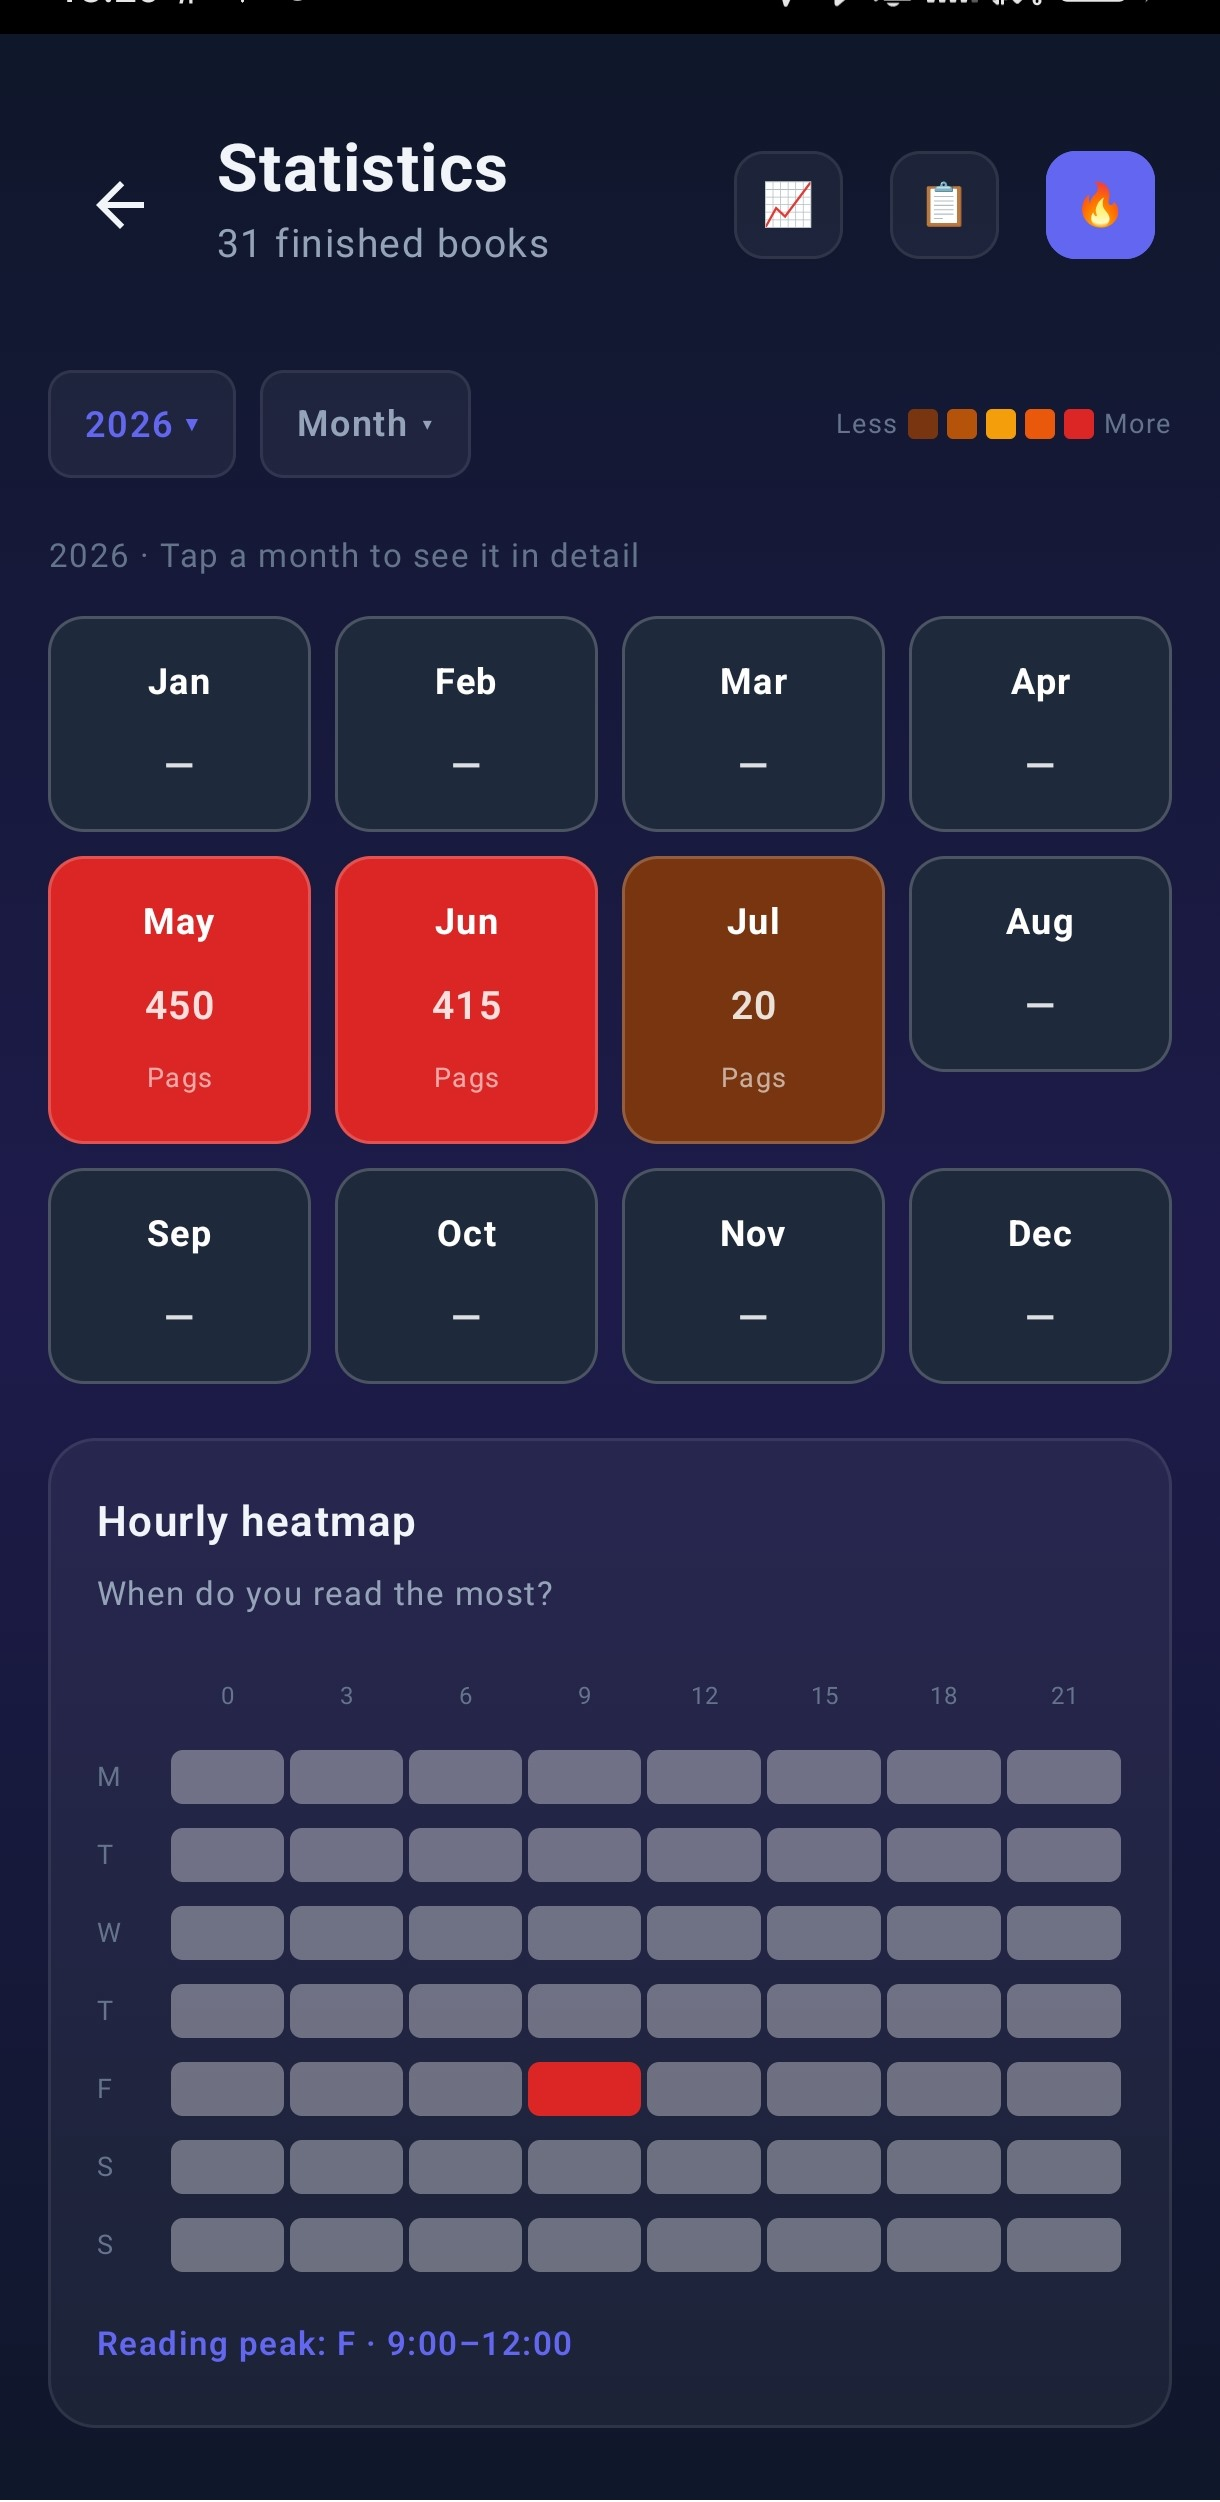
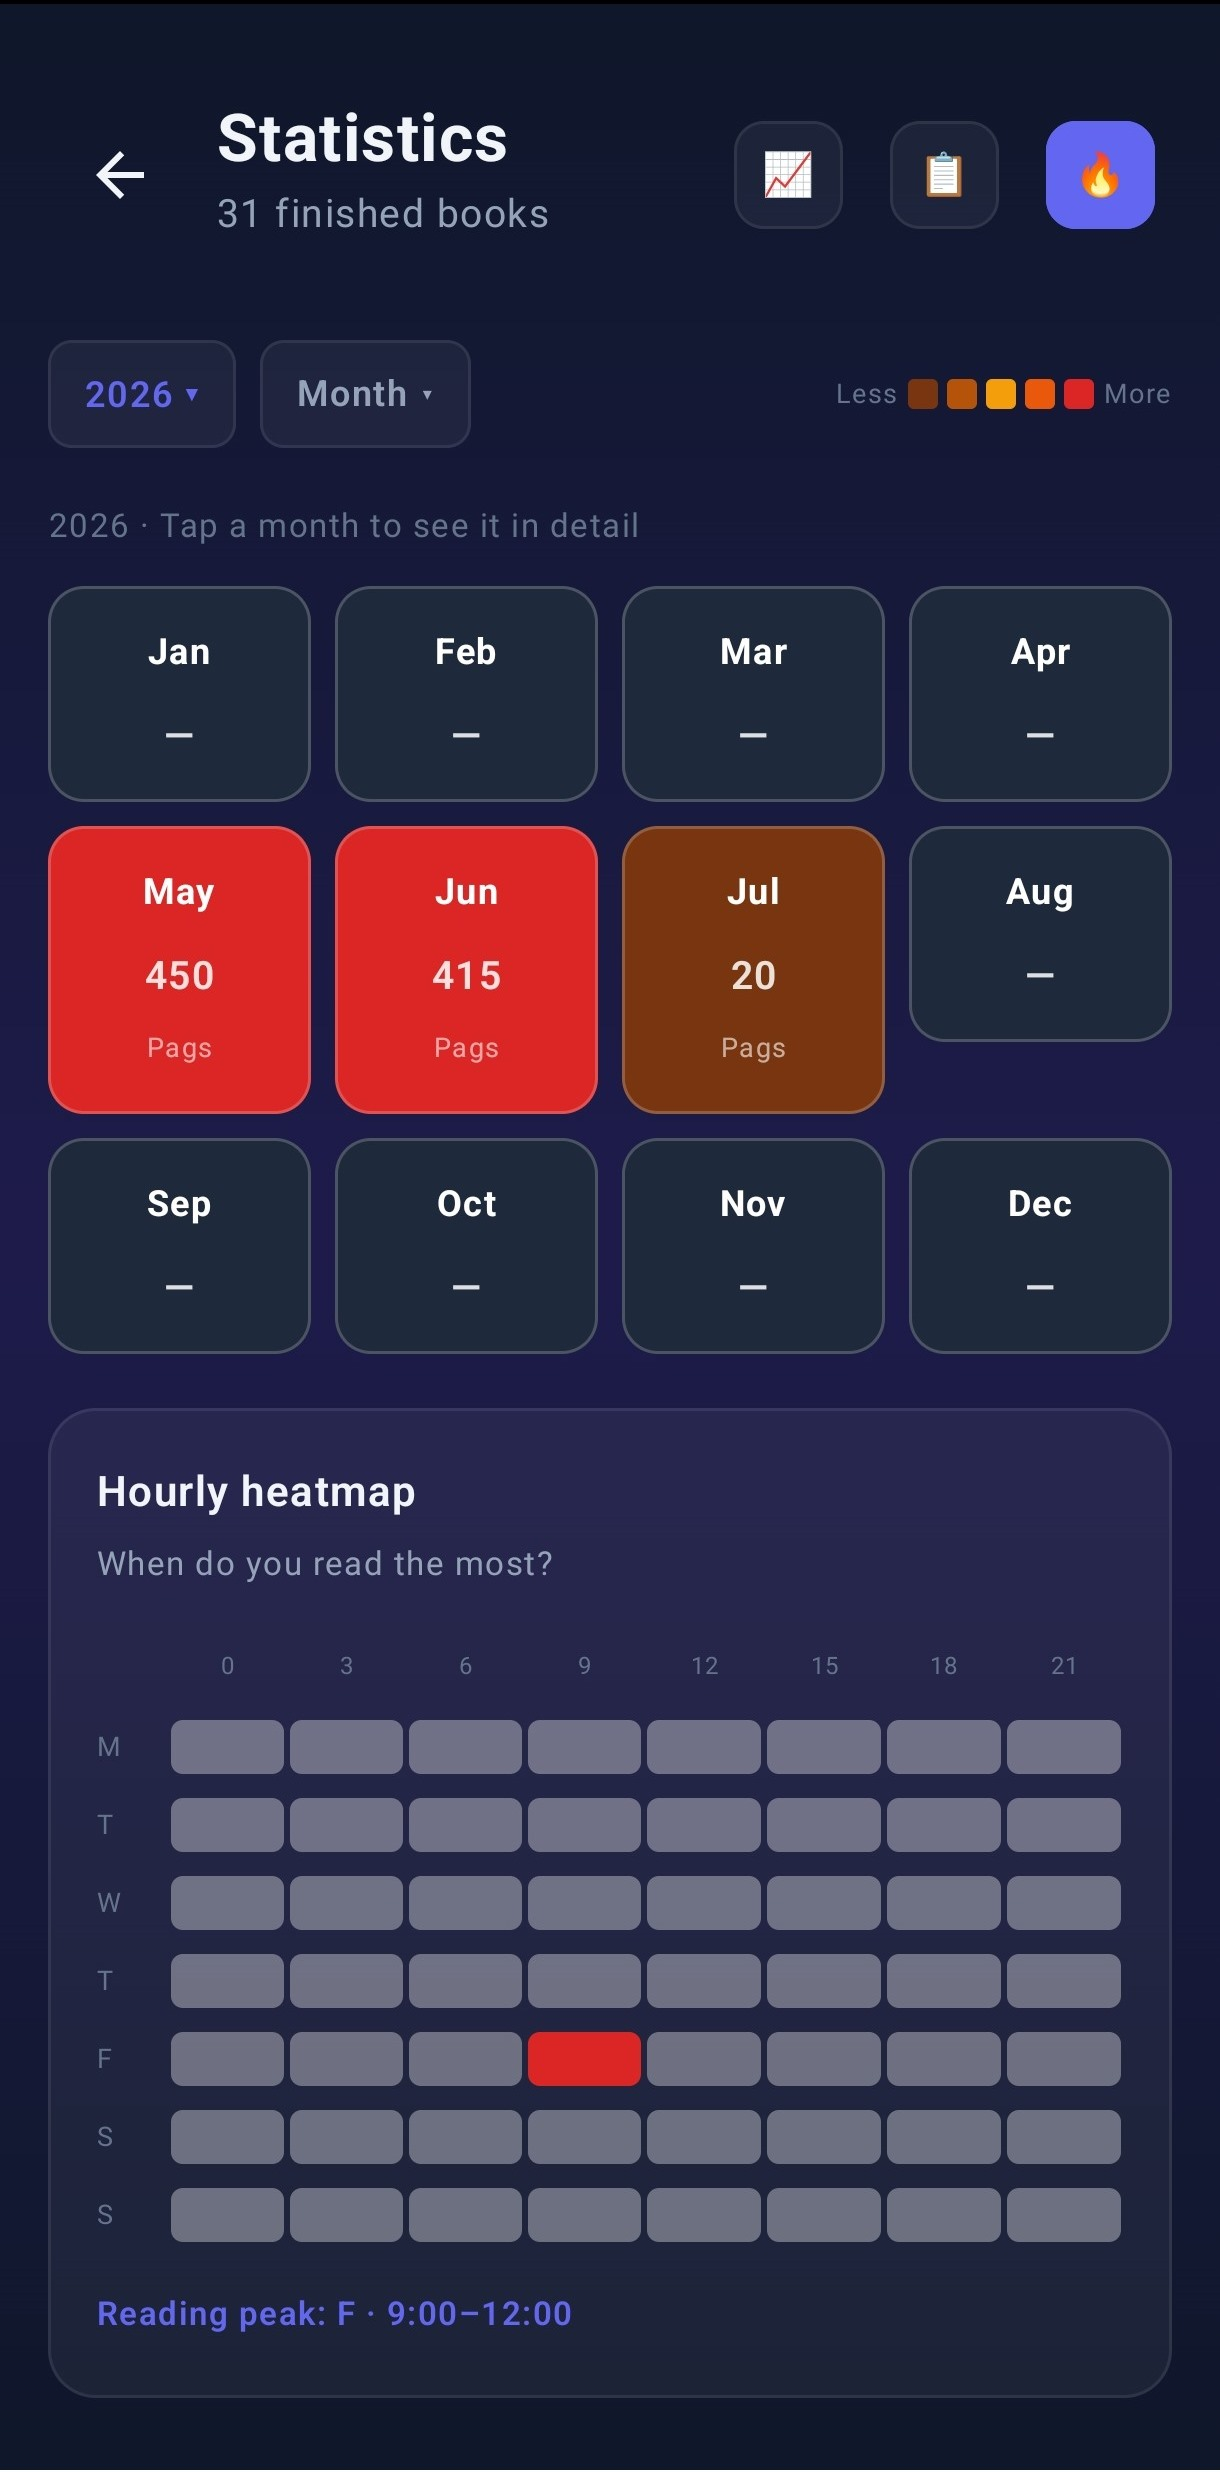
Fix bento sizes, remove redundant screenshot sections, update metrics and image crops
- CSS: side card media height 480px (was aspect-ratio 9/20) so bento is not km tall
- CSS: mobile timer 320px, side cards 340px
- HTML: remove stats-feature-cards and screenshot-gallery sections (ES + EN) — redundant
- HTML: sessions count unified at 500+ (was 2.300+/2.500+) in hero badge and metrics strip
- HTML: remove all Wrapped references (no longer a feature)
- Images: re-crop library and heatmap screenshots with 100px removed from top (was 70px)

diff --git a/index.html b/index.html
@@ -44,7 +44,7 @@
       "url": "https://lecturameterapp.github.io/",
       "image": "https://lecturameterapp.github.io/ic_launcher_round.png",
       "description": "Organiza tu biblioteca, cronometra sesiones de lectura y consulta estadísticas detalladas en tu móvil Android. Sin anuncios, sin suscripciones y con total privacidad.",
-      "featureList": "Biblioteca por estanterías, cronómetro con pantalla apagada, historial de sesiones, mapa de calor, Wrapped anual, retos de lectura, backup en Google Drive, importación Goodreads CSV, 100% offline",
+      "featureList": "Biblioteca por estanterías, cronómetro con pantalla apagada, historial de sesiones, mapa de calor, resumen anual, retos de lectura, backup en Google Drive, importación Goodreads CSV, 100% offline",
       "applicationCategory": "LifestyleApplication",
       "operatingSystem": "Android",
       "offers": {
@@ -93,7 +93,7 @@
         <!-- HERO -->
         <div class="hero">
             <div class="hero-copy">
-                <div class="hero-proof-badge"><div class="badge-pulse"></div>150+ testers · 2.300+ sesiones registradas</div>
+                <div class="hero-proof-badge"><div class="badge-pulse"></div>150+ testers · 500+ sesiones registradas</div>
                 <h1>Tu vida lectora,<br><span class="grad">medida y organizada</span></h1>
                 <p class="tagline">Organiza tu biblioteca, cronometra sesiones y convierte tu año de lectura en estadísticas detalladas. Sin anuncios, sin suscripciones.</p>
                 <ul class="hero-checks">
@@ -123,7 +123,7 @@
 
         <!-- MÉTRICAS -->
         <div class="metrics-strip">
-            <div class="ms-cell"><span class="ms-num ms-accent">2.500+</span><div class="ms-label">Sesiones registradas</div></div>
+            <div class="ms-cell"><span class="ms-num ms-accent">500+</span><div class="ms-label">Sesiones registradas</div></div>
             <div class="ms-cell"><span class="ms-num">87</span><div class="ms-label">Libros terminados en beta</div></div>
             <div class="ms-cell"><span class="ms-num ms-green">150+</span><div class="ms-label">Testers activos</div></div>
             <div class="ms-cell"><span class="ms-num ms-orange">0</span><div class="ms-label">Anuncios. Ahora y siempre.</div></div>
@@ -164,7 +164,7 @@
                     <div class="bf-body">
                         <div class="bf-tag">Historial y estadísticas</div>
                         <h3>Cada sesión registrada</h3>
-                        <p>Resumen por libro, mapa de calor mensual y Wrapped anual con tus autores y géneros top.</p>
+                        <p>Resumen por libro, mapa de calor mensual y estadísticas anuales detalladas.</p>
                     </div>
                 </div>
                 <div class="bf-card bf-small">
@@ -189,37 +189,7 @@
         <div class="section" id="estadisticas">
             <div class="section-head">
                 <h2>📊 Estadísticas que motivan a seguir leyendo</h2>
-                <p>Mapa de calor, resumen anual estilo Wrapped, comparativas entre años y el detalle de cada sesión. Esto es un ejemplo real de lo que verás.</p>
-            </div>
-
-            <div class="stats-feature-cards">
-                <div class="sf-card">
-                    <div class="sf-thumb">
-                        <img src="captura_stats_anual_es.jpg" alt="Mapa de calor anual" loading="lazy">
-                    </div>
-                    <div class="sf-body">
-                        <div class="sf-title">Heatmap y Wrapped anual</div>
-                        <div class="sf-desc">Tu año lector al completo. Mapa de calor mensual, rachas y comparativa entre años estilo Spotify Wrapped.</div>
-                    </div>
-                </div>
-                <div class="sf-card">
-                    <div class="sf-thumb sf-thumb-placeholder">
-                        Captura de retos — próximamente
-                    </div>
-                    <div class="sf-body">
-                        <div class="sf-title">Retos de lectura</div>
-                        <div class="sf-desc">Metas de páginas, libros, sesiones o rachas de días. Anuales o con tus propias fechas de inicio y fin.</div>
-                    </div>
-                </div>
-                <div class="sf-card">
-                    <div class="sf-thumb">
-                        <img src="captura_wrapped_top_es.jpg" alt="Top de géneros y autores" loading="lazy">
-                    </div>
-                    <div class="sf-body">
-                        <div class="sf-title">Tu Wrapped lector</div>
-                        <div class="sf-desc">Top de géneros, autores y libros más largos del año. Tu perfil lector de un vistazo.</div>
-                    </div>
-                </div>
+                <p>Mapa de calor, comparativas entre años y el detalle de cada sesión. Esto es un ejemplo real de lo que verás.</p>
             </div>
 
             <div class="stats-panel">
@@ -235,32 +205,6 @@
                 <div class="bar-chart" id="barChart-es"></div>
             </div>
 
-            <div class="screenshot-gallery">
-                <div class="screenshot-item">
-                    <img src="captura_stats_anual_es.jpg" alt="Estadísticas anuales con mapa de calor mensual" loading="lazy">
-                    <div class="label">Mapa de calor anual <span class="sub">Tu intensidad de lectura, mes a mes</span></div>
-                </div>
-                <div class="screenshot-item">
-                    <img src="captura_heatmap_mayo_es.jpg" alt="Mapa de calor mensual de lectura" loading="lazy">
-                    <div class="label">Detalle mensual <span class="sub">Cada día con sus páginas leídas</span></div>
-                </div>
-                <div class="screenshot-item">
-                    <img src="captura_wrapped_resumen_es.jpg" alt="Resumen anual de lectura estilo Wrapped" loading="lazy">
-                    <div class="label">Resumen del año <span class="sub">Páginas, libros, rachas y favoritos de un vistazo</span></div>
-                </div>
-                <div class="screenshot-item">
-                    <img src="captura_wrapped_top_es.jpg" alt="Resumen anual con tus autores y géneros más leídos" loading="lazy">
-                    <div class="label">Tu año lector <span class="sub">Top de autores y géneros, estilo Wrapped</span></div>
-                </div>
-                <div class="screenshot-item">
-                    <img src="captura_wrapped_best_es.jpg" alt="Libro mejor puntuado y libro más rápido del año" loading="lazy">
-                    <div class="label">Tus récords <span class="sub">El mejor puntuado y el que volaste más rápido</span></div>
-                </div>
-                <div class="screenshot-item">
-                    <img src="captura_wrapped_vs_es.jpg" alt="Comparativa de lectura entre 2026 y 2025" loading="lazy">
-                    <div class="label">Comparativa entre años <span class="sub">¿Este año lees más que el pasado?</span></div>
-                </div>
-            </div>
         </div>
 
         <!-- TESTIMONIOS -->
@@ -366,7 +310,7 @@
         <!-- HERO EN -->
         <div class="hero">
             <div class="hero-copy">
-                <div class="hero-proof-badge"><div class="badge-pulse"></div>150+ testers · 2,300+ sessions logged</div>
+                <div class="hero-proof-badge"><div class="badge-pulse"></div>150+ testers · 500+ sessions logged</div>
                 <h1>Your reading life,<br><span class="grad">measured and organized</span></h1>
                 <p class="tagline">Organize your library, time your sessions and turn your reading year into detailed stats. No ads, no subscriptions.</p>
                 <ul class="hero-checks">
@@ -396,7 +340,7 @@
 
         <!-- METRICS EN -->
         <div class="metrics-strip">
-            <div class="ms-cell"><span class="ms-num ms-accent">2,500+</span><div class="ms-label">Sessions logged</div></div>
+            <div class="ms-cell"><span class="ms-num ms-accent">500+</span><div class="ms-label">Sessions logged</div></div>
             <div class="ms-cell"><span class="ms-num">87</span><div class="ms-label">Books finished in beta</div></div>
             <div class="ms-cell"><span class="ms-num ms-green">150+</span><div class="ms-label">Active testers</div></div>
             <div class="ms-cell"><span class="ms-num ms-orange">0</span><div class="ms-label">Ads. Now and always.</div></div>
@@ -437,7 +381,7 @@
                     <div class="bf-body">
                         <div class="bf-tag">History &amp; stats</div>
                         <h3>Every session logged</h3>
-                        <p>Per-book summary, monthly heatmap and yearly Wrapped with your top authors and genres.</p>
+                        <p>Per-book summary, monthly heatmap and detailed annual statistics.</p>
                     </div>
                 </div>
                 <div class="bf-card bf-small">
@@ -462,37 +406,7 @@
         <div class="section" id="stats">
             <div class="section-head">
                 <h2>📊 Stats that keep you reading</h2>
-                <p>Heatmap, Wrapped-style yearly recap, year-over-year comparisons and the detail of every session. This is a real example of what you'll see.</p>
-            </div>
-
-            <div class="stats-feature-cards">
-                <div class="sf-card">
-                    <div class="sf-thumb">
-                        <img src="captura_stats_anual_es.jpg" alt="Annual heatmap" loading="lazy">
-                    </div>
-                    <div class="sf-body">
-                        <div class="sf-title">Heatmap &amp; Wrapped</div>
-                        <div class="sf-desc">Your reading year at a glance. Monthly heatmap, streaks and year-over-year comparison — Spotify Wrapped for readers.</div>
-                    </div>
-                </div>
-                <div class="sf-card">
-                    <div class="sf-thumb sf-thumb-placeholder">
-                        Challenges screenshot — coming soon
-                    </div>
-                    <div class="sf-body">
-                        <div class="sf-title">Reading challenges</div>
-                        <div class="sf-desc">Goals for pages, books, sessions or day streaks. Yearly or with your own start and end dates.</div>
-                    </div>
-                </div>
-                <div class="sf-card">
-                    <div class="sf-thumb">
-                        <img src="captura_wrapped_top_es.jpg" alt="Top genres and authors" loading="lazy">
-                    </div>
-                    <div class="sf-body">
-                        <div class="sf-title">Your reading Wrapped</div>
-                        <div class="sf-desc">Top genres, authors and longest books of the year. Your reader profile at a glance.</div>
-                    </div>
-                </div>
+                <p>Heatmap, year-over-year comparisons and the detail of every session. This is a real example of what you'll see.</p>
             </div>
 
             <div class="stats-panel">
@@ -508,32 +422,6 @@
                 <div class="bar-chart" id="barChart-en"></div>
             </div>
 
-            <div class="screenshot-gallery">
-                <div class="screenshot-item">
-                    <img src="captura_stats_anual_es.jpg" alt="Annual stats with monthly heatmap" loading="lazy">
-                    <div class="label">Annual heatmap <span class="sub">Your reading intensity, month by month</span></div>
-                </div>
-                <div class="screenshot-item">
-                    <img src="captura_heatmap_mayo_en.jpg" alt="Monthly reading heatmap" loading="lazy">
-                    <div class="label">Monthly detail <span class="sub">Every day with its pages read</span></div>
-                </div>
-                <div class="screenshot-item">
-                    <img src="captura_wrapped_resumen_es.jpg" alt="Wrapped-style yearly reading summary" loading="lazy">
-                    <div class="label">Year in review <span class="sub">Pages, books, streaks and favorites at a glance</span></div>
-                </div>
-                <div class="screenshot-item">
-                    <img src="captura_wrapped_top_es.jpg" alt="Yearly recap with your most-read authors and genres" loading="lazy">
-                    <div class="label">Your reading year <span class="sub">Top authors and genres, Wrapped style</span></div>
-                </div>
-                <div class="screenshot-item">
-                    <img src="captura_wrapped_best_es.jpg" alt="Best rated book and fastest read of the year" loading="lazy">
-                    <div class="label">Your records <span class="sub">Best rated and fastest book of the year</span></div>
-                </div>
-                <div class="screenshot-item">
-                    <img src="captura_wrapped_vs_es.jpg" alt="Reading comparison between 2026 and 2025" loading="lazy">
-                    <div class="label">Year vs year <span class="sub">Are you reading more than last year?</span></div>
-                </div>
-            </div>
         </div>
 
         <!-- TESTIMONIALS EN -->

diff --git a/styles.css b/styles.css
@@ -851,9 +851,9 @@ h2 { font-size: 20px; font-weight: 700; color: var(--text); margin-bottom: 10px;
     background: linear-gradient(to bottom, transparent 0%, rgba(13,20,36,0.94) 38%);
     padding-top: 56px;
 }
-/* Side cards: aspect-ratio para mostrar la captura completa */
+/* Side cards: altura fija para ver el contenido principal sin ocupar km de página */
 .bf-lib .bf-media,
-.bf-stats .bf-media  { aspect-ratio: 1220 / 2502; }
+.bf-stats .bf-media  { height: 480px; }
 .bf-media img,
 .bf-media video {
     width: 100%;
@@ -943,7 +943,7 @@ h2 { font-size: 20px; font-weight: 700; color: var(--text); margin-bottom: 10px;
     .bf-timer .bf-media {
         position: static;
         background: var(--bg-soft);
-        aspect-ratio: 1220 / 2502;
+        height: 320px;
     }
     .bf-timer .bf-body {
         position: static;
@@ -952,7 +952,7 @@ h2 { font-size: 20px; font-weight: 700; color: var(--text); margin-bottom: 10px;
     }
     .bf-timer .bf-media video { object-fit: cover; }
     .bf-lib .bf-media,
-    .bf-stats .bf-media { aspect-ratio: 1220 / 2502; }
+    .bf-stats .bf-media { height: 340px; }
     .stats-feature-cards { grid-template-columns: repeat(2, 1fr); }
 }
 @media (max-width: 768px) {
